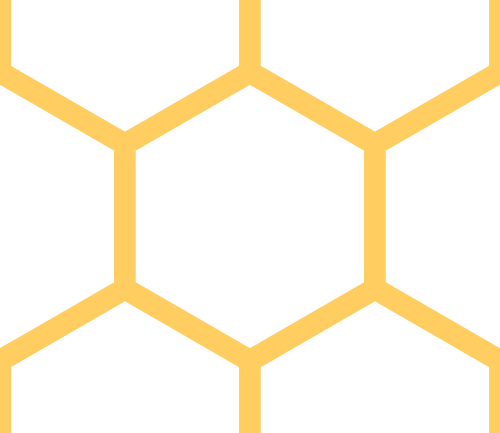
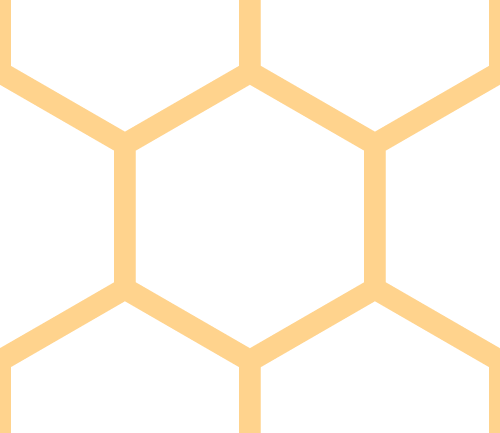
feat(pixiService): update background and fix rendering blurry; add control methods

Changed region(s): [[0.0, 0.0, 1.0, 1.0]]

diff --git a/borne/frontend/src/services/pixiService.js b/borne/frontend/src/services/pixiService.js
@@ -128,8 +128,9 @@ class PixiService {
         this.app = new Application()
         await this.app.init({
             resizeTo: window,
-            backgroundColor: '#ffc44d',
-            antialias: true,
+            backgroundColor: '#ffcd68',
+            autoDensity: true, 
+            resolution: window.devicePixelRatio,
         })
         containerElement.appendChild(this.app.canvas)
 
@@ -203,11 +204,30 @@ class PixiService {
         })
     }
 
-    toggleNametags() {
+    toggleNametags(isVisible) {
         this.nametagsVisible = !this.nametagsVisible
         this.bees.forEach((bee) => {
             bee.label.visible = this.nametagsVisible
         })
+    }
+
+    hideNametags() {
+        this.nametagsVisible = false
+        this.bees.forEach((bee) => {
+            bee.label.visible = false
+        })
+    }
+
+    stopAnimation() {
+        if (this.app && this.app.ticker) {
+            this.app.ticker.stop()
+        }
+    }
+
+    startAnimation() {
+        if (this.app && this.app.ticker) {
+            this.app.ticker.start()
+        }
     }
 
     cleanup() {
